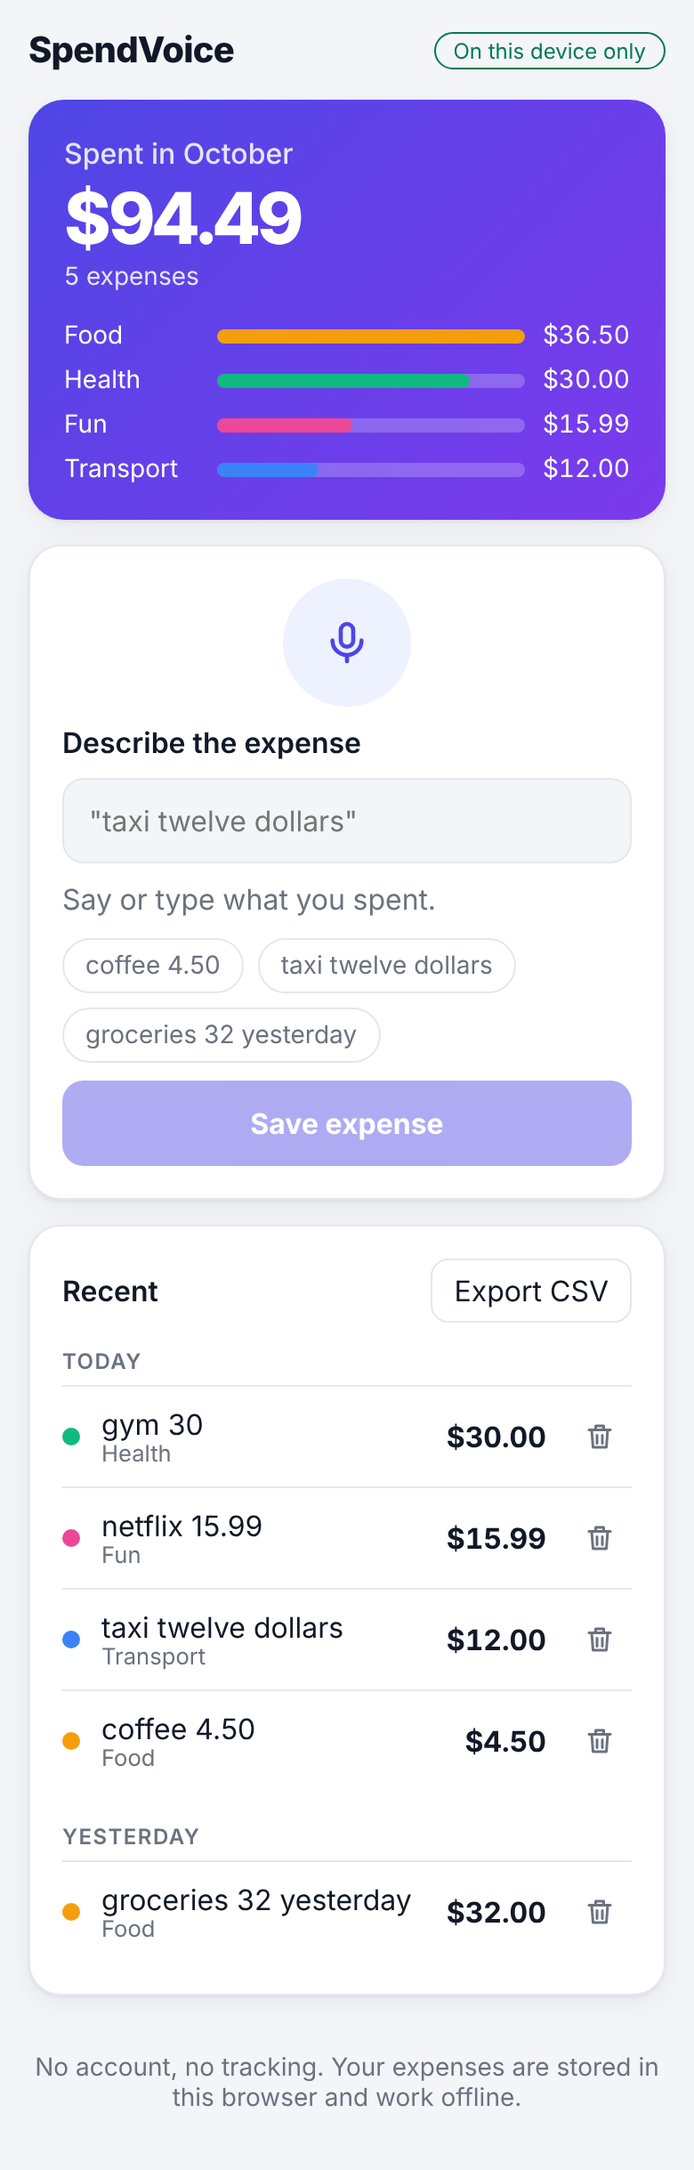
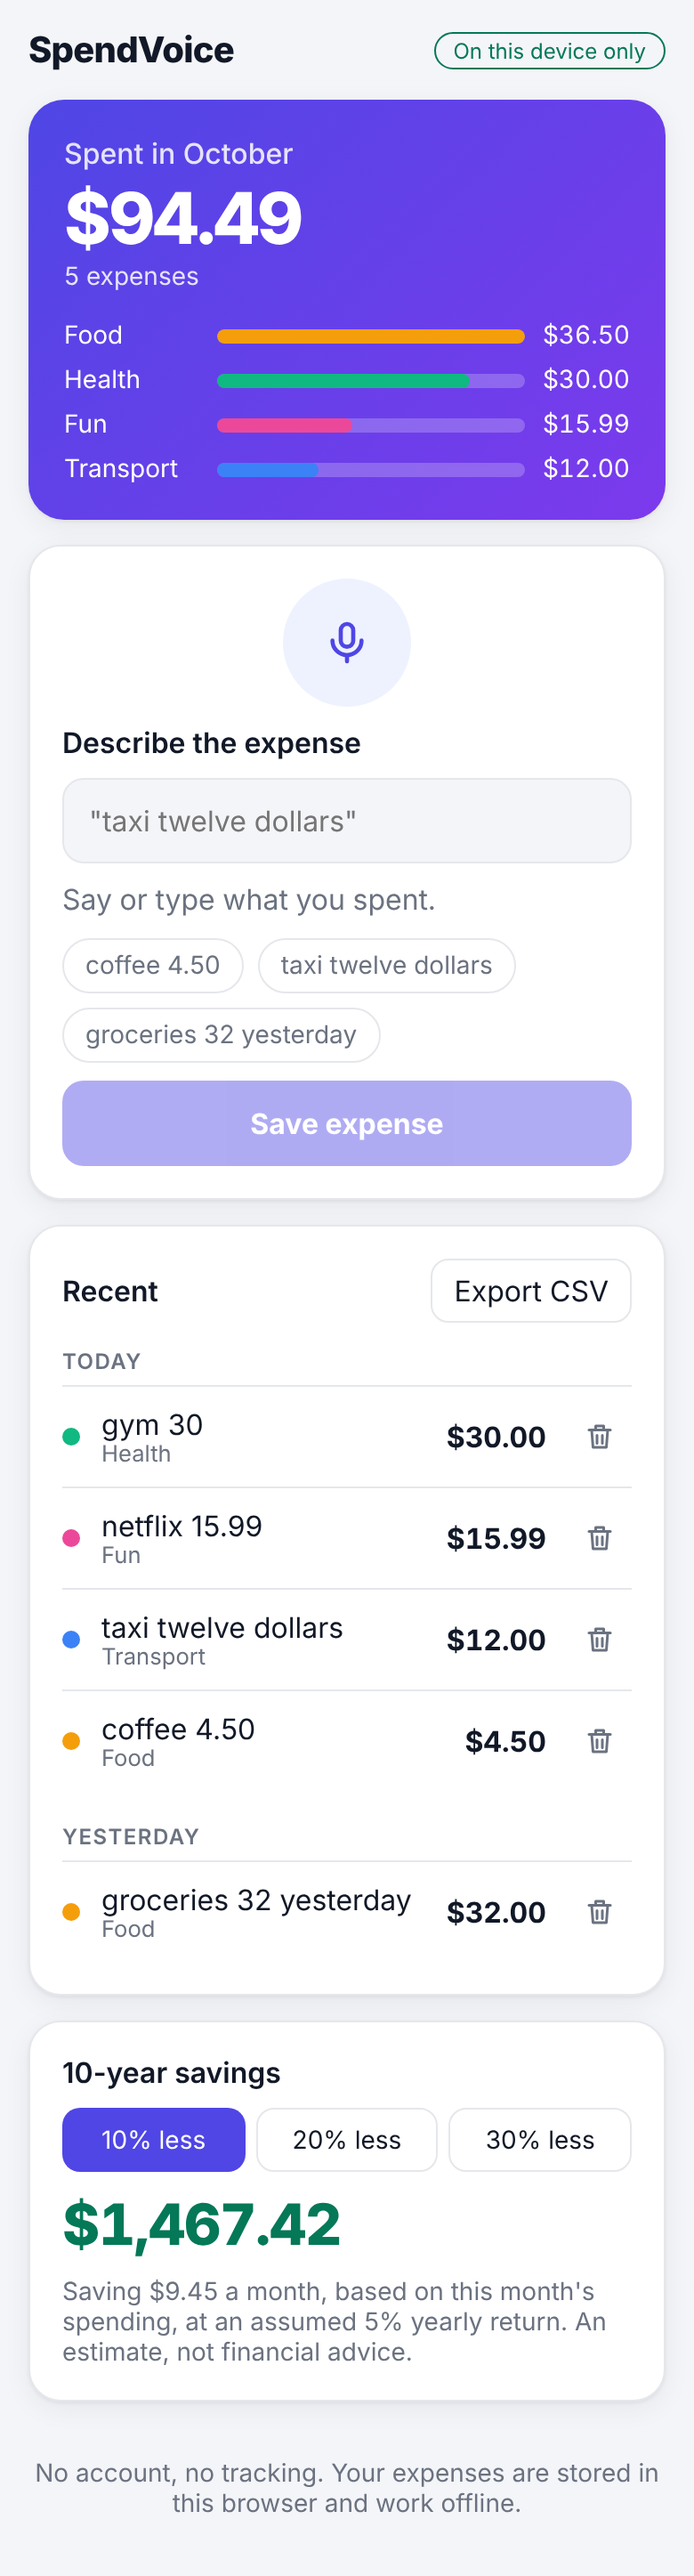
Add a 10-year savings projection
Shows what spending 10, 20, or 30 percent less each month would grow to
over 10 years at an assumed 5 percent yearly return, compounded monthly.
The calculation is a pure, tested function.

diff --git a/src/App.tsx b/src/App.tsx
@@ -3,10 +3,11 @@ import { useState } from 'react';
 import type { ExpenseRepository } from './data/expenseRepository.js';
 import { toCsv } from './domain/csv.js';
 import type { Expense, NewExpense } from './domain/expense.js';
-import { expensesInMonth } from './domain/summary.js';
+import { expensesInMonth, totalCents } from './domain/summary.js';
 import { ExpenseForm } from './features/expenses/ExpenseForm.js';
 import { ExpenseList } from './features/expenses/ExpenseList.js';
 import { MonthSummary } from './features/expenses/MonthSummary.js';
+import { SavingsProjection } from './features/expenses/SavingsProjection.js';
 import { localIsoDate } from './features/expenses/format.js';
 
 export const DEFAULT_CURRENCY = 'USD';
@@ -32,6 +33,7 @@ function ExpenseScreen({ repository }: { repository: ExpenseRepository }) {
   const remove = useMutation({ mutationFn: (id: string) => repository.remove(id), onSuccess: refresh });
 
   const all = expenses.data ?? [];
+  const monthly = expensesInMonth(all, month);
 
   return (
     <div className="app">
@@ -41,7 +43,7 @@ function ExpenseScreen({ repository }: { repository: ExpenseRepository }) {
       </header>
 
       <main className="page">
-        <MonthSummary expenses={expensesInMonth(all, month)} currency={DEFAULT_CURRENCY} month={month} />
+        <MonthSummary expenses={monthly} currency={DEFAULT_CURRENCY} month={month} />
 
         <ExpenseForm today={today} defaultCurrency={DEFAULT_CURRENCY} onSave={(expense) => add.mutateAsync(expense)} />
 
@@ -56,6 +58,8 @@ function ExpenseScreen({ repository }: { repository: ExpenseRepository }) {
           {remove.isError ? <p role="alert" className="error">That expense could not be deleted.</p> : null}
           <ExpenseList expenses={all} today={today} onDelete={(id) => remove.mutate(id)} />
         </section>
+
+        {monthly.length > 0 ? <SavingsProjection monthlySpendCents={totalCents(monthly)} currency={DEFAULT_CURRENCY} /> : null}
       </main>
 
       <footer className="footer muted">

diff --git a/src/features/expenses/SavingsProjection.tsx b/src/features/expenses/SavingsProjection.tsx
@@ -1,0 +1,39 @@
+import { useState } from 'react';
+import { ASSUMED_ANNUAL_RETURN, PROJECTION_YEARS, projectSavingsCents } from '../../domain/projection.js';
+import { formatMoney } from './format.js';
+
+const CUT_OPTIONS = [10, 20, 30] as const;
+
+interface SavingsProjectionProps {
+  monthlySpendCents: number;
+  currency: string;
+}
+
+export function SavingsProjection({ monthlySpendCents, currency }: SavingsProjectionProps) {
+  const [cutPercent, setCutPercent] = useState<(typeof CUT_OPTIONS)[number]>(10);
+  const monthlySavings = Math.round((monthlySpendCents * cutPercent) / 100);
+  const projected = projectSavingsCents(monthlySavings);
+
+  return (
+    <section className="card projection" aria-labelledby="projection-heading">
+      <h2 id="projection-heading">{PROJECTION_YEARS}-year savings</h2>
+      <div className="segmented" role="group" aria-label="Spend less by">
+        {CUT_OPTIONS.map((option) => (
+          <button
+            key={option}
+            type="button"
+            aria-pressed={cutPercent === option}
+            onClick={() => setCutPercent(option)}
+          >
+            {option}% less
+          </button>
+        ))}
+      </div>
+      <p className="projection__value">{formatMoney(projected, currency)}</p>
+      <p className="muted">
+        Saving {formatMoney(monthlySavings, currency)} a month, based on this month&apos;s spending, at an assumed{' '}
+        {ASSUMED_ANNUAL_RETURN * 100}% yearly return. An estimate, not financial advice.
+      </p>
+    </section>
+  );
+}

diff --git a/src/styles.css b/src/styles.css
@@ -104,3 +104,10 @@ button:focus-visible, input:focus-visible { outline: 3px solid var(--accent); ou
 .row__amount { font-weight: 700; font-variant-numeric: tabular-nums; }
 .icon-button { width: 36px; height: 36px; border-radius: 10px; border: 0; background: transparent; color: var(--muted); display: grid; place-items: center; }
 .icon-button:hover { color: var(--danger); background: var(--bg); }
+
+/* Savings projection */
+.projection { display: grid; gap: 10px; }
+.segmented { display: flex; gap: 6px; flex-wrap: wrap; }
+.segmented button { flex: 1; min-height: 36px; border-radius: 10px; border: 1px solid var(--border); background: transparent; font-size: 0.875rem; white-space: nowrap; }
+.segmented button[aria-pressed='true'] { background: var(--accent); color: var(--accent-text); border-color: transparent; }
+.projection__value { font-size: 2rem; font-weight: 800; letter-spacing: -0.02em; color: var(--ok); font-variant-numeric: tabular-nums; }

diff --git a/src/features/expenses/SavingsProjection.test.tsx b/src/features/expenses/SavingsProjection.test.tsx
@@ -1,0 +1,18 @@
+import { render, screen } from '@testing-library/react';
+import userEvent from '@testing-library/user-event';
+import { describe, expect, it } from 'vitest';
+import { SavingsProjection } from './SavingsProjection.js';
+
+describe('SavingsProjection', () => {
+  it('projects 10 years of saving 10% of monthly spending by default', () => {
+    render(<SavingsProjection monthlySpendCents={100_000} currency="USD" />);
+    expect(screen.getByText('$15,528.23')).toBeInTheDocument();
+    expect(screen.getByText(/Saving \$100\.00 a month/)).toBeInTheDocument();
+  });
+
+  it('updates the projection when a larger cut is chosen', async () => {
+    render(<SavingsProjection monthlySpendCents={100_000} currency="USD" />);
+    await userEvent.click(screen.getByRole('button', { name: '20% less' }));
+    expect(screen.getByText('$31,056.46')).toBeInTheDocument();
+  });
+});

diff --git a/src/domain/projection.ts b/src/domain/projection.ts
@@ -1,0 +1,15 @@
+export const PROJECTION_YEARS = 10;
+export const ASSUMED_ANNUAL_RETURN = 0.05;
+
+/**
+ * Future value of saving the same amount every month, compounded monthly.
+ * Returns whole cents. With a zero return it is simply the sum of deposits.
+ */
+export function projectSavingsCents(monthlyCents: number, years = PROJECTION_YEARS, annualReturn = ASSUMED_ANNUAL_RETURN): number {
+  const months = years * 12;
+  const monthlyRate = annualReturn / 12;
+  if (monthlyRate === 0) {
+    return Math.round(monthlyCents * months);
+  }
+  return Math.round(monthlyCents * ((Math.pow(1 + monthlyRate, months) - 1) / monthlyRate));
+}

diff --git a/src/domain/projection.test.ts b/src/domain/projection.test.ts
@@ -1,0 +1,17 @@
+import { describe, expect, it } from 'vitest';
+import { projectSavingsCents } from './projection.js';
+
+describe('projectSavingsCents', () => {
+  it('sums deposits when there is no return', () => {
+    expect(projectSavingsCents(10_000, 10, 0)).toBe(1_200_000);
+  });
+
+  it('compounds monthly at the assumed 5% annual return', () => {
+    // $100 a month for 10 years at 5% a year is about $15,528.23.
+    expect(projectSavingsCents(10_000)).toBe(1_552_823);
+  });
+
+  it('returns zero when nothing is saved', () => {
+    expect(projectSavingsCents(0)).toBe(0);
+  });
+});

diff --git a/README.md b/README.md
@@ -13,6 +13,7 @@ Track expenses by speaking or typing. "Taxi twelve dollars" becomes a saved expe
 - **Works offline.** After the first visit, the app loads without a connection.
 - **Installable.** Add it to your home screen on Android, iPhone, or desktop. See [docs/DISTRIBUTION.md](docs/DISTRIBUTION.md) for app stores.
 - **Monthly view.** A total for the month, a breakdown by category, and expenses grouped by day.
+- **10-year savings projection.** See what spending 10, 20, or 30% less each month would add up to over 10 years, at an assumed 5% yearly return.
 - **Export.** Download every expense as a CSV file for a spreadsheet.
 
 ## Run it
@@ -22,7 +23,7 @@ Requires Node.js 20 or later.
 ```bash
 npm install
 npm run dev        # http://localhost:5173
-npm test           # 49 tests
+npm test           # 54 tests
 npm run build      # typecheck, then production build to dist/
 npm run preview    # serve the production build locally
 ```
